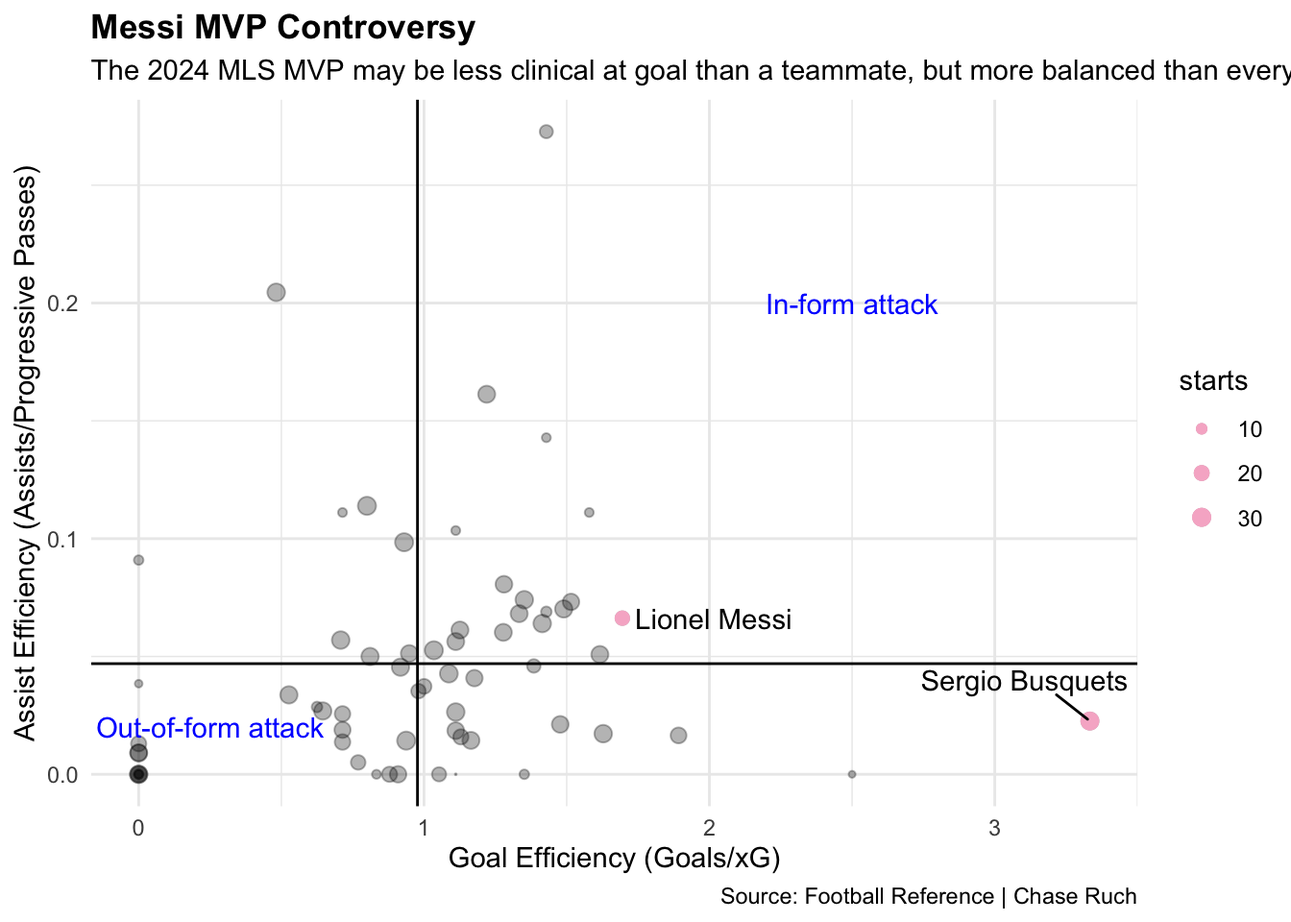
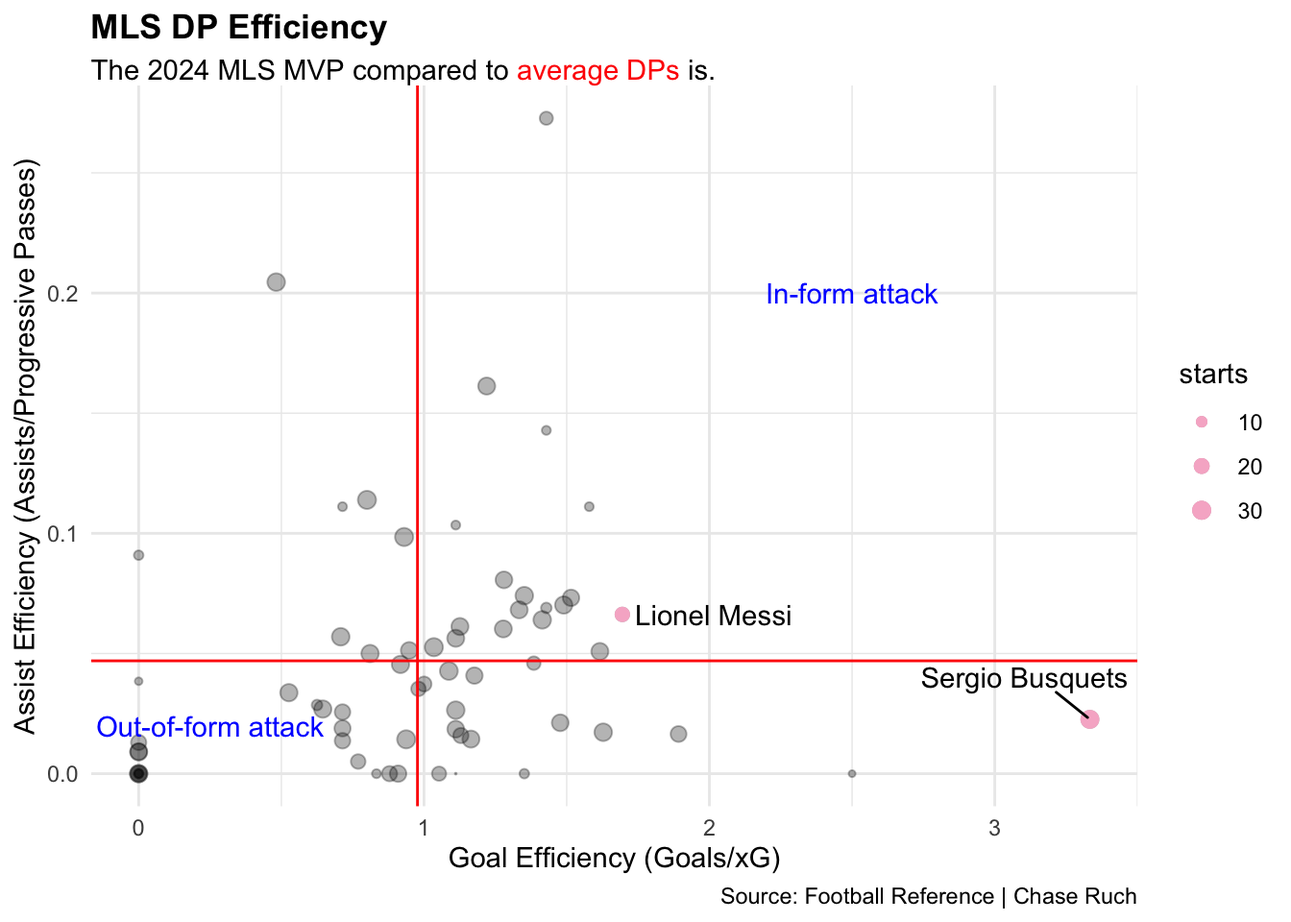
ruch_project_one_final

diff --git a/posts/lionel-messi-mls-stat-comparison/index.html b/posts/lionel-messi-mls-stat-comparison/index.html
@@ -185,14 +185,14 @@ pre > code.sourceCode > span > a:first-child::before { text-decoration: underlin
 
 
 
-<p>It would be extremely difficult to offer a dissenting opinion to Messi being the greatest soccer player in the 21st century, and potentially of all time. The Argentine winger took on a new and historical challenge by moving to Miami in the Summer of 2023 to play in Major League Soccer.</p>
+<p>It would be difficult to offer a dissenting opinion to Messi being the greatest soccer player in the 21st century, and potentially of all time. The Argentine winger took on a new and historical challenge by moving to Miami in the Summer of 2023 to play in Major League Soccer.</p>
 <p>His first appearance in July of 2023 provided a marquee MLS moment where he scored a game-winning free kick in the final moments of a Leagues Cup bout versus Cruz Azul. From that moment on, expectations were high for his first full season in 2024.</p>
 <p>To put the basic stats forward, Messi had a historically good season. He had 20 goals and 16 assists.</p>
-<p>The resounding issue for the critics of his MVP award was that he only played 19 games in the season. For those that are new to the league, the regular season is 34 games.</p>
+<p>The resounding issue for the critics of his MVP award was that he only played 19 games in the season due to a mid-season ankle injury at Copa America. For those that are new to the league, the regular season is 34 games.</p>
 <p>The question becomes clear: Did Messi prove enough in 19 games to be the true MLS MVP?</p>
-<p>The first sample size we will look at are the 2024 MLS Designated Players. These players’ salaries can exceed the salary cap of MLS which usually consists of the MLS MVP seasonally.</p>
+<p>The first sample size will be the 2024 MLS Designated Players. These players’ salaries can exceed the salary cap of MLS which usually consists of the MLS MVP seasonally.</p>
 <p>How balanced and efficient was Messi in creating assists and goals when he had the chances to do so?</p>
-<p>To look at this, we made a stat ratio for assist and goal efficiency. Goal efficiency is goals to expected goals (xG) and assist efficiency is assists to progressive passes.</p>
+<p>To look at this, a stat ratio for assist and goal efficiency would be most effective. Goal efficiency is goals to expected goals (xG) and assist efficiency is assists to progressive passes.</p>
 <div class="cell">
 <details class="code-fold">
 <summary>Code</summary>
@@ -232,8 +232,8 @@ pre > code.sourceCode > span > a:first-child::before { text-decoration: underlin
 <span id="cb1-34"><a href="#cb1-34" aria-hidden="true" tabindex="-1"></a>    <span class="fu">aes</span>(<span class="at">x=</span>g_eff, <span class="at">y=</span>a_eff, <span class="at">size=</span>mp), </span>
 <span id="cb1-35"><a href="#cb1-35" aria-hidden="true" tabindex="-1"></a>    <span class="at">color=</span> <span class="st">"#F7B5CD"</span>) <span class="sc">+</span></span>
 <span id="cb1-36"><a href="#cb1-36" aria-hidden="true" tabindex="-1"></a>  <span class="fu">scale_size</span>(<span class="at">range =</span> <span class="fu">c</span>(<span class="dv">0</span>, <span class="dv">3</span>), <span class="at">name=</span><span class="st">"starts"</span>) <span class="sc">+</span></span>
-<span id="cb1-37"><a href="#cb1-37" aria-hidden="true" tabindex="-1"></a>  <span class="fu">geom_vline</span>(<span class="at">xintercept =</span> <span class="fl">0.9770309</span>) <span class="sc">+</span></span>
-<span id="cb1-38"><a href="#cb1-38" aria-hidden="true" tabindex="-1"></a>  <span class="fu">geom_hline</span>(<span class="at">yintercept=</span><span class="fl">0.04695493</span>) <span class="sc">+</span></span>
+<span id="cb1-37"><a href="#cb1-37" aria-hidden="true" tabindex="-1"></a>  <span class="fu">geom_vline</span>(<span class="at">xintercept =</span> <span class="fl">0.9770309</span>, <span class="at">color=</span><span class="st">"red"</span>) <span class="sc">+</span></span>
+<span id="cb1-38"><a href="#cb1-38" aria-hidden="true" tabindex="-1"></a>  <span class="fu">geom_hline</span>(<span class="at">yintercept=</span><span class="fl">0.04695493</span>, <span class="at">color=</span><span class="st">"red"</span>) <span class="sc">+</span></span>
 <span id="cb1-39"><a href="#cb1-39" aria-hidden="true" tabindex="-1"></a>  <span class="fu">geom_text</span>(<span class="fu">aes</span>(<span class="at">x=</span><span class="fl">2.5</span>, <span class="at">y=</span><span class="fl">0.2</span>, <span class="at">label=</span><span class="st">"In-form attack"</span>), <span class="at">color=</span><span class="st">"blue"</span>) <span class="sc">+</span></span>
 <span id="cb1-40"><a href="#cb1-40" aria-hidden="true" tabindex="-1"></a>  <span class="fu">geom_text</span>(<span class="fu">aes</span>(<span class="at">x=</span><span class="fl">0.25</span>, <span class="at">y=</span><span class="fl">0.02</span>, <span class="at">label=</span><span class="st">"Out-of-form attack"</span>), <span class="at">color=</span><span class="st">"blue"</span>) <span class="sc">+</span></span>
 <span id="cb1-41"><a href="#cb1-41" aria-hidden="true" tabindex="-1"></a>  <span class="fu">geom_text_repel</span>(</span>
@@ -251,12 +251,16 @@ pre > code.sourceCode > span > a:first-child::before { text-decoration: underlin
 <span id="cb1-53"><a href="#cb1-53" aria-hidden="true" tabindex="-1"></a><span class="fu">labs</span>(</span>
 <span id="cb1-54"><a href="#cb1-54" aria-hidden="true" tabindex="-1"></a>    <span class="at">x=</span><span class="st">"Goal Efficiency (Goals/xG)"</span>, </span>
 <span id="cb1-55"><a href="#cb1-55" aria-hidden="true" tabindex="-1"></a>    <span class="at">y=</span><span class="st">"Assist Efficiency (Assists/Progressive Passes)"</span>, </span>
-<span id="cb1-56"><a href="#cb1-56" aria-hidden="true" tabindex="-1"></a>    <span class="at">title=</span><span class="st">"Messi MVP Controversy"</span>, </span>
-<span id="cb1-57"><a href="#cb1-57" aria-hidden="true" tabindex="-1"></a>    <span class="at">subtitle=</span><span class="st">"The 2024 MLS MVP may be less clinical at goal than a teammate, but more balanced than everyone"</span>, </span>
-<span id="cb1-58"><a href="#cb1-58" aria-hidden="true" tabindex="-1"></a>    <span class="at">caption=</span><span class="st">"Source: Football Reference | Chase Ruch"</span></span>
-<span id="cb1-59"><a href="#cb1-59" aria-hidden="true" tabindex="-1"></a>    ) <span class="sc">+</span></span>
-<span id="cb1-60"><a href="#cb1-60" aria-hidden="true" tabindex="-1"></a>  <span class="fu">theme_minimal</span>() <span class="sc">+</span></span>
-<span id="cb1-61"><a href="#cb1-61" aria-hidden="true" tabindex="-1"></a>  <span class="fu">theme</span>(<span class="at">plot.title =</span> <span class="fu">element_text</span>(<span class="at">face =</span> <span class="st">"bold"</span>))</span></code><button title="Copy to Clipboard" class="code-copy-button"><i class="bi"></i></button></pre></div>
+<span id="cb1-56"><a href="#cb1-56" aria-hidden="true" tabindex="-1"></a>    <span class="at">title=</span><span class="st">"MLS DP Efficiency"</span>, </span>
+<span id="cb1-57"><a href="#cb1-57" aria-hidden="true" tabindex="-1"></a>    <span class="at">subtitle=</span><span class="st">"The 2024 MLS MVP compared to &lt;span style = 'color:red;'&gt;average DPs&lt;/span&gt; is."</span>, </span>
+<span id="cb1-58"><a href="#cb1-58" aria-hidden="true" tabindex="-1"></a>    <span class="at">caption=</span><span class="st">"Source: Football Reference | Chase Ruch"</span>,</span>
+<span id="cb1-59"><a href="#cb1-59" aria-hidden="true" tabindex="-1"></a>    <span class="at">plot.title.position=</span><span class="st">"plot"</span></span>
+<span id="cb1-60"><a href="#cb1-60" aria-hidden="true" tabindex="-1"></a>    ) <span class="sc">+</span></span>
+<span id="cb1-61"><a href="#cb1-61" aria-hidden="true" tabindex="-1"></a>  <span class="fu">theme_minimal</span>() <span class="sc">+</span></span>
+<span id="cb1-62"><a href="#cb1-62" aria-hidden="true" tabindex="-1"></a>  <span class="fu">theme</span>(<span class="at">plot.title =</span> <span class="fu">element_text</span>(<span class="at">face =</span> <span class="st">"bold"</span>)) <span class="sc">+</span></span>
+<span id="cb1-63"><a href="#cb1-63" aria-hidden="true" tabindex="-1"></a>  <span class="fu">theme</span>(</span>
+<span id="cb1-64"><a href="#cb1-64" aria-hidden="true" tabindex="-1"></a>    <span class="at">plot.subtitle =</span> <span class="fu">element_textbox_simple</span>()</span>
+<span id="cb1-65"><a href="#cb1-65" aria-hidden="true" tabindex="-1"></a>  )</span></code><button title="Copy to Clipboard" class="code-copy-button"><i class="bi"></i></button></pre></div>
 </details>
 <div class="cell-output-display">
 <div>
@@ -266,8 +270,8 @@ pre > code.sourceCode > span > a:first-child::before { text-decoration: underlin
 </div>
 </div>
 </div>
-<p>If one looks at Messi within the “in-form attack” segement, it is clear that he is the most balanced in-form player with a combined look into assist and goal efficiency. The most interesting part is his teammate (at both Inter Miami and Barcelona) Sergio Busquets was significantly more efficient in front of goal than Messi last season. The caveat is that the midfielder did not dish out assists as efficiently as he typically did in the past.</p>
-<p>The next rebuttal to come from the critics is the penalty argument. A social media phenomenon is the phrase “Pessi.” This is essentially a slang term showing that Messi is helped by his teammates (and referees) to get goal scoring opportunities at the penalty spot.</p>
+<p>If one looks at Messi within the “in-form attack” segement, it is clear that he is the most balanced in-form player that favors goal scoring (LA Galaxy’s Riqui Puig is the closest to rival him). The most interesting part is his teammate (at both Inter Miami and Barcelona) Sergio Busquets was significantly more efficient in front of goal than Messi last season. The caveat is that the midfielder did not dish out assists as efficiently as he typically did in the past.</p>
+<p>The next rebuttal to come from the critics is the penalty argument. A social media phenomenon is the phrase “Pessi.” This is essentially a slang term showing that Messi is helped by his teammates and referees to get goal scoring opportunities at the penalty spot.</p>
 <p>Just recently in April viewers saw a “Pessi” flag at BMO Stadium in Los Angeles before a match against LAFC, mocking the World Cup winner. This is an ongoing fight against his legitimacy that is particularly fueled in the Messi versus Cristiano Ronaldo debate.</p>
 <p>So, did Mr.&nbsp;Messi prove the doubters wrong? Did he rely on penalties to get the MVP award to his name? Time to narrow this down to the MVP finalists.</p>
 <div class="cell">
@@ -311,11 +315,15 @@ pre > code.sourceCode > span > a:first-child::before { text-decoration: underlin
 <span id="cb2-36"><a href="#cb2-36" aria-hidden="true" tabindex="-1"></a>    <span class="at">x=</span><span class="st">"MVP Finalist"</span>, </span>
 <span id="cb2-37"><a href="#cb2-37" aria-hidden="true" tabindex="-1"></a>    <span class="at">y=</span><span class="st">"Season xG"</span>, </span>
 <span id="cb2-38"><a href="#cb2-38" aria-hidden="true" tabindex="-1"></a>    <span class="at">title=</span><span class="st">"Was Messi Helped Via Penalites?"</span>, </span>
-<span id="cb2-39"><a href="#cb2-39" aria-hidden="true" tabindex="-1"></a>    <span class="at">subtitle=</span><span class="st">"Messi long faced penalty criticisim in his career, how did he compare to MVP finalists?"</span> , </span>
-<span id="cb2-40"><a href="#cb2-40" aria-hidden="true" tabindex="-1"></a>    <span class="at">caption=</span><span class="st">"Source: Football Reference | Chase Ruch"</span></span>
-<span id="cb2-41"><a href="#cb2-41" aria-hidden="true" tabindex="-1"></a>    ) <span class="sc">+</span></span>
-<span id="cb2-42"><a href="#cb2-42" aria-hidden="true" tabindex="-1"></a>  <span class="fu">theme_minimal</span>() <span class="sc">+</span></span>
-<span id="cb2-43"><a href="#cb2-43" aria-hidden="true" tabindex="-1"></a>  <span class="fu">theme</span>(<span class="at">plot.title =</span> <span class="fu">element_text</span>(<span class="at">face =</span> <span class="st">"bold"</span>))</span></code><button title="Copy to Clipboard" class="code-copy-button"><i class="bi"></i></button></pre></div>
+<span id="cb2-39"><a href="#cb2-39" aria-hidden="true" tabindex="-1"></a>    <span class="at">subtitle=</span><span class="st">"Did Messi &lt;span style = 'color:darkred;'&gt;rely on penalties&lt;/span&gt; or did he get opportunities &lt;span style = 'color:darkgreen;'&gt;in the run of play&lt;/span&gt;."</span> , </span>
+<span id="cb2-40"><a href="#cb2-40" aria-hidden="true" tabindex="-1"></a>    <span class="at">caption=</span><span class="st">"Source: Football Reference | Chase Ruch"</span>,</span>
+<span id="cb2-41"><a href="#cb2-41" aria-hidden="true" tabindex="-1"></a>    <span class="at">plot.title.position=</span><span class="st">"plot"</span></span>
+<span id="cb2-42"><a href="#cb2-42" aria-hidden="true" tabindex="-1"></a>    ) <span class="sc">+</span></span>
+<span id="cb2-43"><a href="#cb2-43" aria-hidden="true" tabindex="-1"></a>  <span class="fu">theme_minimal</span>() <span class="sc">+</span></span>
+<span id="cb2-44"><a href="#cb2-44" aria-hidden="true" tabindex="-1"></a>  <span class="fu">theme</span>(<span class="at">plot.title =</span> <span class="fu">element_text</span>(<span class="at">face =</span> <span class="st">"bold"</span>)) <span class="sc">+</span></span>
+<span id="cb2-45"><a href="#cb2-45" aria-hidden="true" tabindex="-1"></a>  <span class="fu">theme</span>(</span>
+<span id="cb2-46"><a href="#cb2-46" aria-hidden="true" tabindex="-1"></a>    <span class="at">plot.subtitle =</span> <span class="fu">element_textbox_simple</span>()</span>
+<span id="cb2-47"><a href="#cb2-47" aria-hidden="true" tabindex="-1"></a>  )</span></code><button title="Copy to Clipboard" class="code-copy-button"><i class="bi"></i></button></pre></div>
 </details>
 <div class="cell-output-display">
 <div>
@@ -339,10 +347,11 @@ pre > code.sourceCode > span > a:first-child::before { text-decoration: underlin
 <span id="cb3-7"><a href="#cb3-7" aria-hidden="true" tabindex="-1"></a>    <span class="at">y=</span><span class="st">"Per 90 xG"</span>, </span>
 <span id="cb3-8"><a href="#cb3-8" aria-hidden="true" tabindex="-1"></a>    <span class="at">title=</span><span class="st">"Did Messi Do Enough in Each Game?"</span>, </span>
 <span id="cb3-9"><a href="#cb3-9" aria-hidden="true" tabindex="-1"></a>    <span class="at">subtitle=</span><span class="st">"Messi only played 19 of 34 games, so did he dominate enough when he played?"</span>, </span>
-<span id="cb3-10"><a href="#cb3-10" aria-hidden="true" tabindex="-1"></a>    <span class="at">caption=</span><span class="st">"Source: Football Reference | Chase Ruch"</span></span>
-<span id="cb3-11"><a href="#cb3-11" aria-hidden="true" tabindex="-1"></a>    ) <span class="sc">+</span></span>
-<span id="cb3-12"><a href="#cb3-12" aria-hidden="true" tabindex="-1"></a>  <span class="fu">theme_minimal</span>() <span class="sc">+</span></span>
-<span id="cb3-13"><a href="#cb3-13" aria-hidden="true" tabindex="-1"></a>  <span class="fu">theme</span>(<span class="at">plot.title =</span> <span class="fu">element_text</span>(<span class="at">face =</span> <span class="st">"bold"</span>))</span></code><button title="Copy to Clipboard" class="code-copy-button"><i class="bi"></i></button></pre></div>
+<span id="cb3-10"><a href="#cb3-10" aria-hidden="true" tabindex="-1"></a>    <span class="at">caption=</span><span class="st">"Source: Football Reference | Chase Ruch"</span>,</span>
+<span id="cb3-11"><a href="#cb3-11" aria-hidden="true" tabindex="-1"></a>    <span class="at">plot.title.position=</span><span class="st">"plot"</span></span>
+<span id="cb3-12"><a href="#cb3-12" aria-hidden="true" tabindex="-1"></a>    ) <span class="sc">+</span></span>
+<span id="cb3-13"><a href="#cb3-13" aria-hidden="true" tabindex="-1"></a>  <span class="fu">theme_minimal</span>() <span class="sc">+</span></span>
+<span id="cb3-14"><a href="#cb3-14" aria-hidden="true" tabindex="-1"></a>  <span class="fu">theme</span>(<span class="at">plot.title =</span> <span class="fu">element_text</span>(<span class="at">face =</span> <span class="st">"bold"</span>))</span></code><button title="Copy to Clipboard" class="code-copy-button"><i class="bi"></i></button></pre></div>
 </details>
 <div class="cell-output-display">
 <div>
@@ -352,11 +361,11 @@ pre > code.sourceCode > span > a:first-child::before { text-decoration: underlin
 </div>
 </div>
 </div>
-<p>There are three MLS MVP winners in the last decade to set the record for most points in a single season with their respective team. One of them set this record along with the single season scoring record: Carlos Vela.</p>
+<p>There are three MLS MVP winners in the last decade to set the record for most points in a single season with their respective team. One of these players set this record along with the single season scoring record: Carlos Vela.</p>
 <p>In 2019, Vela scored 34 goals in 33 appearances for LAFC. It would be unusual if he did not score in any given fixture.</p>
 <p>If one were to raise the question of the greatest single season in MLS history, the measuring stick is Vela.</p>
 <p>Before any rash assumptions are made, Messi did not have a better season than Vela because Messi is 13 goal contributions short (Vela also holds that record in a single season with 49). The question is did Messi have the pace that Vela did to potentially reach his mark if they matched in appearances.</p>
-<p>The best statistic to measure this is a “goal creating action,” or GCA. A GCA credits a player for a hot, a dribble, a foul drawn, a clearance, or a tackle that leads to a goal. There are other specific circumstances that can credit a player with a GCA, but those are the most common scenarios.</p>
+<p>The best statistic to measure this is a “goal creating action,” or GCA. A GCA credits a player for a shot, a dribble, a foul drawn, a clearance, or a tackle that leads to a goal. There are other specific circumstances that can credit a player with a GCA, but those are the most common scenarios.</p>
 <div class="cell">
 <details class="code-fold">
 <summary>Code</summary>
@@ -390,15 +399,16 @@ pre > code.sourceCode > span > a:first-child::before { text-decoration: underlin
 <span id="cb4-28"><a href="#cb4-28" aria-hidden="true" tabindex="-1"></a>    <span class="at">y=</span><span class="st">"Cumulative Goal-Creating Actions"</span>, </span>
 <span id="cb4-29"><a href="#cb4-29" aria-hidden="true" tabindex="-1"></a>    <span class="at">title=</span><span class="st">"Messi Versus the Most Impressive MVP Season"</span>, </span>
 <span id="cb4-30"><a href="#cb4-30" aria-hidden="true" tabindex="-1"></a>    <span class="at">subtitle=</span><span class="st">"Did Messi have any pace to Carlos Vela's 2019 Season to match goal-creating actions?"</span>, </span>
-<span id="cb4-31"><a href="#cb4-31" aria-hidden="true" tabindex="-1"></a>    <span class="at">caption=</span><span class="st">"Source: Football Reference | By Chase Ruch"</span></span>
-<span id="cb4-32"><a href="#cb4-32" aria-hidden="true" tabindex="-1"></a>    ) <span class="sc">+</span> </span>
-<span id="cb4-33"><a href="#cb4-33" aria-hidden="true" tabindex="-1"></a>  <span class="fu">theme_minimal</span>() <span class="sc">+</span></span>
-<span id="cb4-34"><a href="#cb4-34" aria-hidden="true" tabindex="-1"></a>  <span class="fu">annotate</span>(<span class="st">"text"</span>, <span class="at">x=</span><span class="dv">01</span>, <span class="at">y=</span><span class="dv">5</span>, <span class="at">label=</span><span class="st">"Messi"</span>, <span class="at">color=</span><span class="st">"#F7B5CD"</span>, <span class="at">fontface=</span><span class="st">"bold"</span>) <span class="sc">+</span></span>
-<span id="cb4-35"><a href="#cb4-35" aria-hidden="true" tabindex="-1"></a>  <span class="fu">annotate</span>(<span class="st">"text"</span>, <span class="at">x=</span><span class="dv">02</span>, <span class="at">y=</span><span class="dv">7</span>, <span class="at">label=</span><span class="st">"Vela"</span>, <span class="at">color=</span><span class="st">"#C39E6D"</span>, <span class="at">fontface=</span><span class="st">"bold"</span>) <span class="sc">+</span></span>
-<span id="cb4-36"><a href="#cb4-36" aria-hidden="true" tabindex="-1"></a>  <span class="fu">annotate</span>(<span class="st">"text"</span>, <span class="at">x=</span><span class="fl">6.5</span>, <span class="at">y=</span><span class="dv">10</span>, <span class="at">label=</span><span class="st">"Messi's Injury"</span>, <span class="at">color=</span><span class="st">"red"</span>, <span class="at">fontface=</span><span class="st">"bold"</span>) <span class="sc">+</span></span>
-<span id="cb4-37"><a href="#cb4-37" aria-hidden="true" tabindex="-1"></a>  <span class="fu">theme</span>(<span class="at">plot.title =</span> <span class="fu">element_text</span>(<span class="at">face =</span> <span class="st">"bold"</span>)) <span class="sc">+</span></span>
-<span id="cb4-38"><a href="#cb4-38" aria-hidden="true" tabindex="-1"></a>  <span class="fu">geom_vline</span>(<span class="at">xintercept =</span> <span class="fl">5.1</span>) <span class="sc">+</span></span>
-<span id="cb4-39"><a href="#cb4-39" aria-hidden="true" tabindex="-1"></a>  <span class="fu">geom_vline</span>(<span class="at">xintercept =</span> <span class="fl">7.9</span>)</span></code><button title="Copy to Clipboard" class="code-copy-button"><i class="bi"></i></button></pre></div>
+<span id="cb4-31"><a href="#cb4-31" aria-hidden="true" tabindex="-1"></a>    <span class="at">caption=</span><span class="st">"Source: Football Reference | By Chase Ruch"</span>,</span>
+<span id="cb4-32"><a href="#cb4-32" aria-hidden="true" tabindex="-1"></a>    <span class="at">plot.title.position=</span><span class="st">"plot"</span></span>
+<span id="cb4-33"><a href="#cb4-33" aria-hidden="true" tabindex="-1"></a>    ) <span class="sc">+</span> </span>
+<span id="cb4-34"><a href="#cb4-34" aria-hidden="true" tabindex="-1"></a>  <span class="fu">theme_minimal</span>() <span class="sc">+</span></span>
+<span id="cb4-35"><a href="#cb4-35" aria-hidden="true" tabindex="-1"></a>  <span class="fu">annotate</span>(<span class="st">"text"</span>, <span class="at">x=</span><span class="dv">01</span>, <span class="at">y=</span><span class="dv">5</span>, <span class="at">label=</span><span class="st">"Messi"</span>, <span class="at">color=</span><span class="st">"#F7B5CD"</span>, <span class="at">fontface=</span><span class="st">"bold"</span>) <span class="sc">+</span></span>
+<span id="cb4-36"><a href="#cb4-36" aria-hidden="true" tabindex="-1"></a>  <span class="fu">annotate</span>(<span class="st">"text"</span>, <span class="at">x=</span><span class="dv">02</span>, <span class="at">y=</span><span class="dv">7</span>, <span class="at">label=</span><span class="st">"Vela"</span>, <span class="at">color=</span><span class="st">"#C39E6D"</span>, <span class="at">fontface=</span><span class="st">"bold"</span>) <span class="sc">+</span></span>
+<span id="cb4-37"><a href="#cb4-37" aria-hidden="true" tabindex="-1"></a>  <span class="fu">annotate</span>(<span class="st">"text"</span>, <span class="at">x=</span><span class="fl">6.5</span>, <span class="at">y=</span><span class="dv">10</span>, <span class="at">label=</span><span class="st">"Messi's Injury"</span>, <span class="at">color=</span><span class="st">"red"</span>, <span class="at">fontface=</span><span class="st">"bold"</span>) <span class="sc">+</span></span>
+<span id="cb4-38"><a href="#cb4-38" aria-hidden="true" tabindex="-1"></a>  <span class="fu">theme</span>(<span class="at">plot.title =</span> <span class="fu">element_text</span>(<span class="at">face =</span> <span class="st">"bold"</span>)) <span class="sc">+</span></span>
+<span id="cb4-39"><a href="#cb4-39" aria-hidden="true" tabindex="-1"></a>  <span class="fu">geom_vline</span>(<span class="at">xintercept =</span> <span class="fl">5.1</span>) <span class="sc">+</span></span>
+<span id="cb4-40"><a href="#cb4-40" aria-hidden="true" tabindex="-1"></a>  <span class="fu">geom_vline</span>(<span class="at">xintercept =</span> <span class="fl">7.9</span>)</span></code><button title="Copy to Clipboard" class="code-copy-button"><i class="bi"></i></button></pre></div>
 </details>
 <div class="cell-output-display">
 <div>
@@ -409,10 +419,10 @@ pre > code.sourceCode > span > a:first-child::before { text-decoration: underlin
 </div>
 </div>
 <p>The crucial area to look at is Messi’s injury phase during the late summer to early fall. He had a better GCA pace than Vela.</p>
-<p>It is not possible to be 100% sure that Messi would have a better season than the Mexican, but it is valid to say that he had the pace to.</p>
+<p>It is not possible to be 100% sure that Messi would have a better season than the Mexican, but it is valid to theorize that he had the pace to.</p>
 <p>Another interesting piece to dwell on is the lull Vela had to end the season in terms of GCA. The season ended a bit earlier at the time, but a fully healthy Messi had a window to pounce on it.</p>
-<p>Messi also picked up where he left off as soon as he came back. He made it to within five.</p>
-<p>So not only did Messi have MVP dominance amongst his candidate pool, he had pace to beating the best single MVP season in league history. If you are a bettor that likes plus odds, the boy from Rosario, Argentina is a solid take to one-up Vela’s record.</p>
+<p>Messi also picked up where he left off as soon as he came back. He made it to within five GCAs.</p>
+<p>So not only did Messi have MVP dominance among his candidate pool, he had pace to beating the best single MVP season in league history in some statistical areas. If one were a bettor that likes plus odds, the boy from Rosario, Argentina, is a solid take to one-up Vela’s record.</p>
 
 
 

diff --git a/index.html b/index.html
@@ -200,7 +200,7 @@ window.Quarto = {
 
 <div class="quarto-listing quarto-listing-container-default" id="listing-listing">
 <div class="list quarto-listing-default">
-<div class="quarto-post image-right" data-index="0" data-categories="c29jY2VyJTJDbWxzJTJDbWVzc2k=" data-listing-date-sort="1744606800000" data-listing-file-modified-sort="1744656684789" data-listing-date-modified-sort="NaN" data-listing-reading-time-sort="9" data-listing-word-count-sort="1741">
+<div class="quarto-post image-right" data-index="0" data-categories="c29jY2VyJTJDbWxzJTJDbWVzc2k=" data-listing-date-sort="1744606800000" data-listing-file-modified-sort="1744673667454" data-listing-date-modified-sort="NaN" data-listing-reading-time-sort="9" data-listing-word-count-sort="1799">
 <div class="thumbnail">
 <p><a href="./posts/lionel-messi-mls-stat-comparison/index.html" class="no-external"></a></p><a href="./posts/lionel-messi-mls-stat-comparison/index.html" class="no-external">
 <p><img loading="lazy" src="./posts/lionel-messi-mls-stat-comparison/image.png" class="thumbnail-image"></p>
@@ -225,7 +225,7 @@ messi
 </div>
 </div>
 <div class="listing-description">
-<a href="./posts/lionel-messi-mls-stat-comparison/index.html" class="no-external">It would be extremely difficult to offer a dissenting opinion to Messi being the greatest soccer player in the 21st century, and potentially of all time. The Argentine…</a>
+<a href="./posts/lionel-messi-mls-stat-comparison/index.html" class="no-external">It would be difficult to offer a dissenting opinion to Messi being the greatest soccer player in the 21st century, and potentially of all time. The Argentine winger took on…</a>
 </div>
 </div>
 <div class="metadata">
